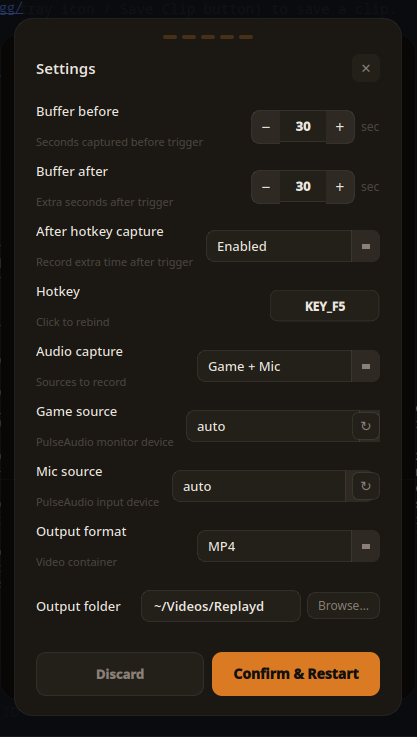
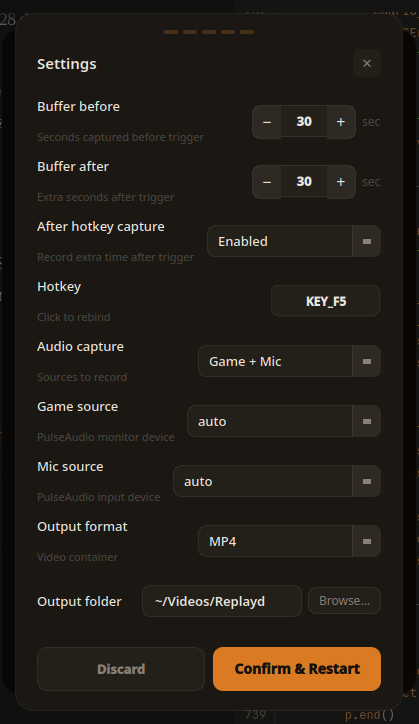
Fix dropdown indicator clipped on source combos, remove refresh buttons

diff --git a/settings.py b/settings.py
@@ -536,48 +536,12 @@ class SettingsOverlay(QWidget):
         h.addWidget(unit_lbl)
         return w
 
-    def _make_source_combo(self, list_fn) -> QWidget:
-        w = QWidget()
-        w.setStyleSheet('background:transparent;border:none;')
-        h = QHBoxLayout(w)
-        h.setContentsMargins(0, 0, 0, 0)
-        h.setSpacing(6)
-
+    def _make_source_combo(self, list_fn) -> QComboBox:
         cb = QComboBox()
-        cb.setFixedWidth(180)
-        cb.setStyleSheet(self._select_css(width=180))
+        cb.setStyleSheet(self._select_css(width=152))
         cb.addItem('auto')
         cb.addItems(list_fn())
-
-        refresh = QPushButton('↻')
-        refresh.setFixedSize(28, 28)
-        refresh.setCursor(QCursor(Qt.CursorShape.PointingHandCursor))
-        refresh.setToolTip('Refresh device list')
-        refresh.setStyleSheet(f'''
-            QPushButton {{
-                background: {S2}; border: 1px solid rgba(255,255,255,0.08);
-                border-radius: 7px; color: {TX2}; font-size: 14px;
-            }}
-            QPushButton:hover {{ background: {S3}; color: {TX}; }}
-        ''')
-        # Store combo ref on widget so we can grab it later
-        w._combo = cb
-        refresh.clicked.connect(lambda: self._refresh_combo(cb, list_fn))
-
-        h.addWidget(cb)
-        h.addWidget(refresh)
-        return w
-
-    @staticmethod
-    def _refresh_combo(cb: QComboBox, list_fn):
-        current = cb.currentText()
-        cb.blockSignals(True)
-        cb.clear()
-        cb.addItem('auto')
-        cb.addItems(list_fn())
-        idx = cb.findText(current)
-        cb.setCurrentIndex(idx if idx >= 0 else 0)
-        cb.blockSignals(False)
+        return cb
 
     def _make_folder_row(self) -> QWidget:
         w = QWidget()
@@ -664,8 +628,8 @@ class SettingsOverlay(QWidget):
         fmt = self.config.get('output_format', 'mp4').upper()
         self.cb_format.setCurrentIndex(0 if fmt == 'MP4' else 1)
 
-        self._set_combo_text(self.cb_game_src._combo, self.config.get('audio_source', 'auto'))
-        self._set_combo_text(self.cb_mic_src._combo,  self.config.get('mic_source',   'auto'))
+        self._set_combo_text(self.cb_game_src, self.config.get('audio_source', 'auto'))
+        self._set_combo_text(self.cb_mic_src,  self.config.get('mic_source',   'auto'))
         self._update_after_controls()
         self._update_source_rows()
 
@@ -733,8 +697,8 @@ class SettingsOverlay(QWidget):
             'capture_after_hotkey': self.cb_after.currentIndex() == 0,
             'hotkey':         hotkey,
             'audio_mode':     mode_map[self.cb_audio.currentIndex()],
-            'audio_source':   self.cb_game_src._combo.currentText(),
-            'mic_source':     self.cb_mic_src._combo.currentText(),
+            'audio_source':   self.cb_game_src.currentText(),
+            'mic_source':     self.cb_mic_src.currentText(),
             'output_format':  self.cb_format.currentText().lower(),
             'output_dir':     self.le_outdir.text(),
         })
